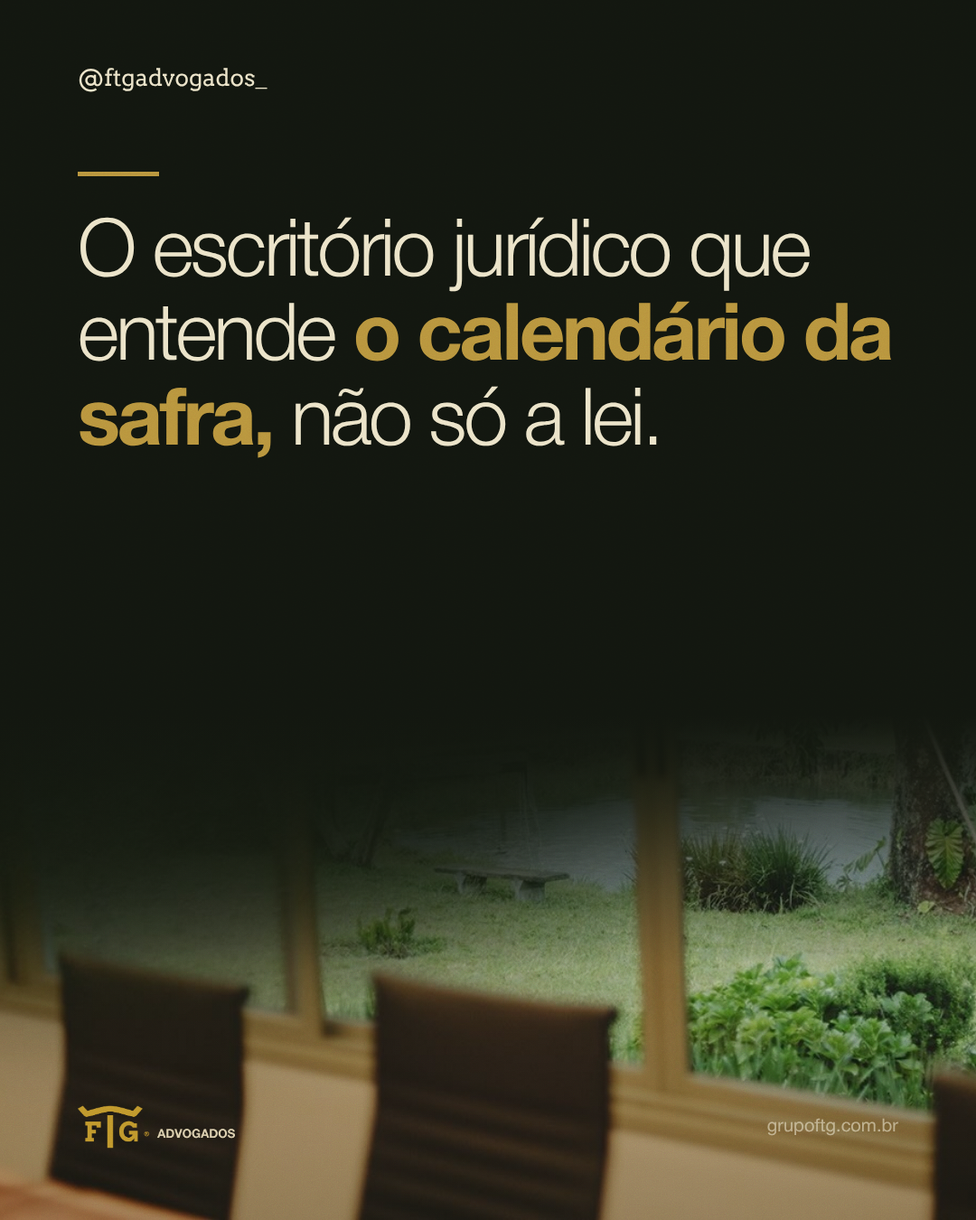
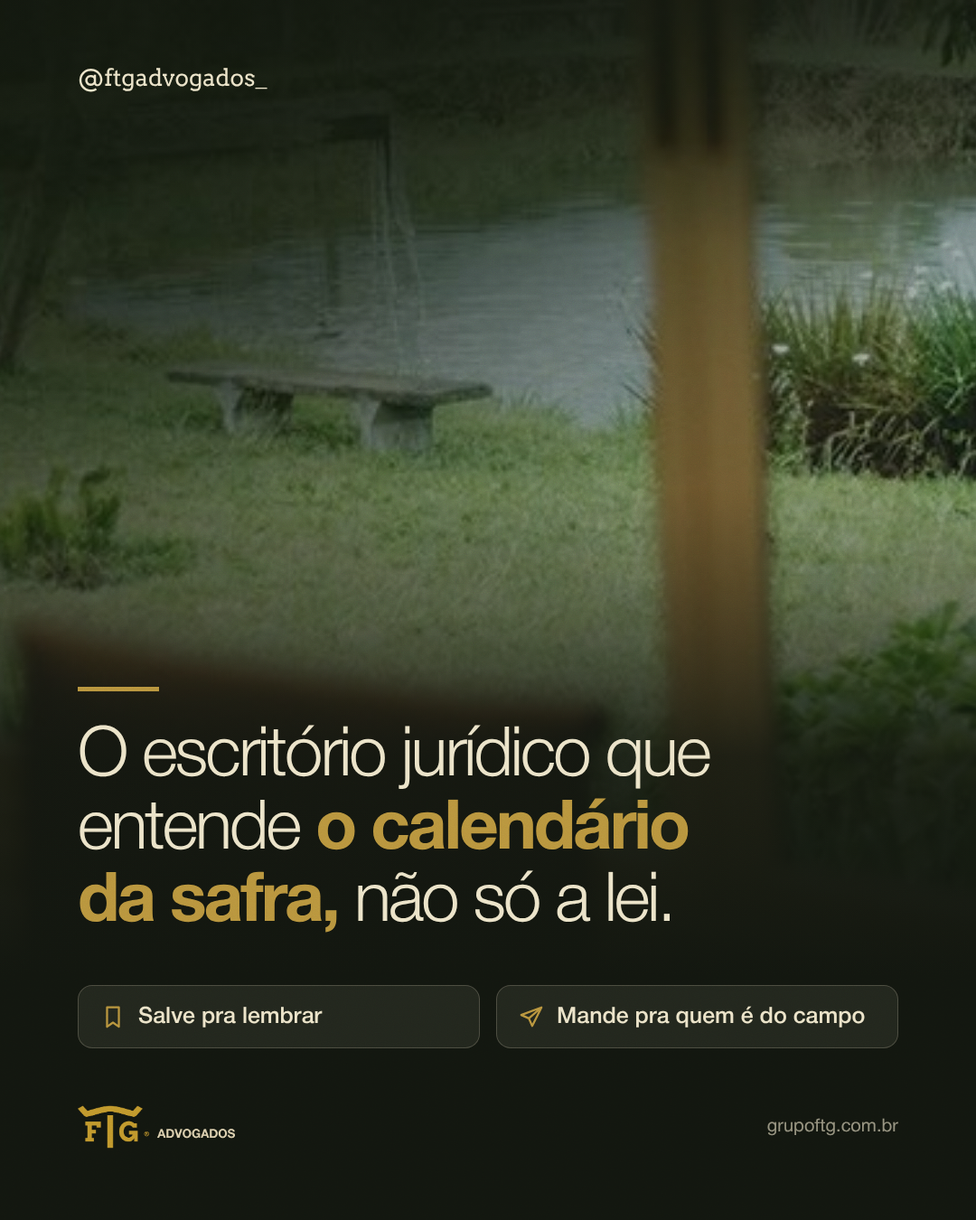
A FTG em números: foto cheia, mapa 3D e fecho novo
Claude-Session: https://claude.ai/code/session_01P4d7pDXSyhkanGB3aZGg4D

diff --git a/docs/gorayeb/modelos/ftg-em-numeros.html b/docs/gorayeb/modelos/ftg-em-numeros.html
@@ -33,19 +33,36 @@
 #g2 .anos{position:absolute;left:86px;right:86px;bottom:210px;display:flex;justify-content:space-between;font:500 22px HN;opacity:.7}
 #g2 .rod{position:absolute;left:86px;right:86px;bottom:80px;display:flex;justify-content:space-between;align-items:flex-end;font:300 28px HN}
 /* 3 */
-#g3 .cartao{top:140px;left:60px;width:960px;height:640px}
+#g3 .full{position:absolute;top:0;left:0;width:100%;height:1000px;object-fit:cover;object-position:40% 50%}
+#g3 .veu{position:absolute;left:0;right:0;top:0;height:1000px;background:linear-gradient(180deg,rgba(18,22,15,.75) 0,rgba(18,22,15,.1) 18%,rgba(18,22,15,.1) 45%,rgba(18,22,15,.85) 78%,#12160f 100%)}
 #g3 .num{position:absolute;left:78px;top:830px;font:700 190px/1 HN;letter-spacing:-.055em;color:#b8943d}
 #g3 .leit{position:absolute;left:86px;top:1035px;font:300 40px/1.3 HN;width:800px}
 #g3 .fonte{position:absolute;left:86px;bottom:74px}
 /* 4 */
-#g4 h1{position:absolute;left:86px;top:150px;font:700 82px/1.02 HN;letter-spacing:-.04em;width:620px} #g4 h1 span{font-weight:300}
-#g4 .cartao{top:150px;right:60px;width:270px;height:560px}
-#g4 svg{position:absolute;left:130px;top:400px;width:580px;overflow:visible}
-#g4 .pais{fill:#2a3322;stroke:#ebe3c8;stroke-width:2.4;stroke-linejoin:round}
-#g4 .rot{font:700 58px HN;fill:#ebe3c8;paint-order:stroke;stroke:#12160f;stroke-width:10px;stroke-linejoin:round}
-#g4 .txt{position:absolute;left:86px;right:86px;top:1110px;font:300 32px/1.42 HN} #g4 .txt b{font-weight:700;color:#b8943d}
+#g4 h1{position:absolute;left:86px;right:86px;top:150px;font:700 84px/1.04 HN;letter-spacing:-.04em;text-wrap:balance} #g4 h1 span{font-weight:300}
+#g4 .cena{position:absolute;left:0;right:0;top:330px;height:720px;perspective:1500px;display:flex;justify-content:center}
+#g4 .plano{position:relative;width:760px;height:797px;transform:translateY(-70px) rotateX(46deg) rotateZ(-8deg);transform-style:preserve-3d}
+#g4 .plano svg.c{position:absolute;inset:0;width:100%;height:100%;overflow:visible}
+#g4 .sombra{position:absolute;inset:6%;border-radius:50%;background:radial-gradient(closest-side,rgba(0,0,0,.55),transparent);transform:translateZ(-60px)}
+#g4 .pino{position:absolute;transform-origin:50% 100%;transform:translate(-50%,-100%) rotateX(-46deg);display:flex;flex-direction:column;align-items:center}
+#g4 .pino b{font:700 30px HN;white-space:nowrap;background:#ebe3c8;color:#1b2316;padding:8px 16px;border-radius:10px;margin-bottom:10px;box-shadow:0 8px 18px rgba(0,0,0,.35)}
+#g4 .pino b.princ{background:#b8943d}
+#g4 .rotulo{position:absolute;font:700 32px HN;white-space:nowrap;background:#ebe3c8;color:#1b2316;padding:9px 18px;border-radius:10px;box-shadow:0 8px 18px rgba(0,0,0,.35);z-index:4}
+#g4 .rotulo.princ{background:#b8943d}
+#g4 svg.fios{position:absolute;inset:0;width:1080px;height:1350px;z-index:3;pointer-events:none}
+#g4 .txt{position:absolute;left:86px;right:86px;top:1100px;font:300 34px/1.42 HN;text-wrap:balance} #g4 .txt b{font-weight:700;color:#b8943d}
 #g4 .fonte{position:absolute;left:86px;bottom:74px}
+
 /* 5 */
+#g5 .full{position:absolute;inset:0;width:100%;height:100%;object-fit:cover;object-position:60% 50%}
+#g5 .veu2{position:absolute;inset:0;background:linear-gradient(180deg,rgba(18,22,15,.7) 0,rgba(18,22,15,.15) 20%,rgba(18,22,15,.25) 40%,rgba(18,22,15,.92) 62%,#12160f 80%)}
+#g5 .bl{position:absolute;left:86px;right:86px;top:760px}
+#g5 .bl .fio{position:static;width:90px;height:5px;background:#b8943d;margin-bottom:34px}
+#g5 h2{font:300 76px/1.06 HN;letter-spacing:-.04em;text-wrap:balance} #g5 h2 b{font-weight:700;color:#b8943d}
+#g5 .botoes{position:absolute;left:86px;right:86px;top:1090px;display:flex;gap:18px}
+#g5 .botoes div{flex:1;display:flex;align-items:center;gap:14px;padding:20px 24px;border-radius:16px;background:rgba(235,227,200,.08);border:1.5px solid rgba(235,227,200,.2);font:500 25px HN}
+#g5 .botoes svg{width:28px;height:28px;fill:none;stroke:#b8943d;stroke-width:2.4;stroke-linejoin:round}
+
 #g5 .foto{position:absolute;left:0;right:0;bottom:0;width:100%;height:560px;object-fit:cover}
 #g5 .veu{position:absolute;left:0;right:0;bottom:0;height:560px;background:linear-gradient(0deg,rgba(18,22,15,.35) 0,rgba(18,22,15,.2) 50%,#12160f 100%)}
 #g5 .fio{position:absolute;left:86px;top:190px;width:90px;height:5px;background:#b8943d}
@@ -61,14 +78,24 @@
  <div class="num">+450%</div><div class="leit">de crescimento da carteira desde 2019.</div>
  <div class="barras"><div style="height:57.2px"></div><div style="height:78.0px"></div><div style="height:104.0px"></div><div style="height:135.20000000000002px"></div><div style="height:166.4px"></div><div style="height:208.0px"></div><div style="height:260.0px"></div></div><div class="anos"><span>2019</span><span>2025</span></div>
  <div class="rod"><span>E 2026 já caminha pra superar 2025.</span><span class="fonte">Dados do escritório</span></div></div>
-<div class="s" id="g3"><div class="arroba">@ftgadvogados_</div><img class="cartao" src="file:///tmp/claude-0/-home-user/26273b3c-5a63-5858-8d58-9c11ac53aa52/scratchpad/ig/foto03.jpg">
+<div class="s" id="g3"><img class="full" src="file:///tmp/claude-0/-home-user/26273b3c-5a63-5858-8d58-9c11ac53aa52/scratchpad/ig/foto03.jpg"><div class="veu"></div><div class="arroba">@ftgadvogados_</div>
  <div class="num">R$ 5,9 bi</div><div class="leit">em valor de causa sob a nossa responsabilidade.</div><div class="fonte">Dados do escritório</div></div>
-<div class="s" id="g4"><div class="arroba">@ftgadvogados_</div><h1>Atendimento próximo <span>e presencial.</span></h1>
- <img class="cartao" src="file:///tmp/claude-0/-home-user/26273b3c-5a63-5858-8d58-9c11ac53aa52/scratchpad/ig/foto04.jpg">
- <svg viewBox="0 0 1000 1049"><path class="pais" d="M525.1,1048.6 L518.0,1031.3 L529.3,1016.9 L514.5,996.3 L468.3,960.7 L458.9,961.6 L433.3,938.7 L416.8,941.9 L450.8,901.9 L479.5,873.8 L518.1,846.3 L518.6,823.6 L505.8,807.3 L493.2,812.7 L501.7,779.8 L501.7,764.4 L492.5,759.4 L483.0,763.9 L473.5,762.6 L468.1,726.5 L463.3,718.3 L446.1,710.9 L435.7,716.2 L408.8,711.0 L410.5,673.8 L403.0,658.7 L411.0,653.1 L408.5,637.7 L415.5,625.9 L420.0,604.7 L414.0,588.1 L400.1,580.6 L397.4,570.0 L401.1,554.7 L352.3,553.6 L342.5,522.8 L349.9,522.4 L349.6,511.0 L344.6,503.3 L343.5,488.1 L328.7,480.4 L312.7,480.6 L302.1,473.0 L284.9,467.8 L274.9,458.1 L246.3,453.8 L218.7,430.4 L220.7,413.0 L217.6,403.1 L220.3,383.7 L187.0,388.0 L173.6,397.8 L151.3,408.3 L145.6,416.1 L113.5,414.5 L99.2,418.9 L87.6,416.0 L89.3,376.6 L68.4,391.9 L45.9,391.2 L36.3,377.4 L19.4,375.9 L24.8,364.8 L10.6,349.2 L0.0,326.0 L6.7,321.3 L6.7,310.4 L22.1,303.0 L19.6,289.2 L26.1,280.3 L27.9,268.3 L57.0,250.9 L77.9,246.0 L81.3,242.2 L104.3,243.4 L116.3,162.4 L112.3,147.8 L101.0,138.5 L101.2,120.0 L115.5,115.8 L120.6,118.4 L121.5,108.7 L106.5,106.0 L106.2,90.1 L155.9,90.7 L164.3,81.9 L171.4,90.0 L176.3,105.0 L181.1,101.9 L195.2,115.3 L215.0,113.7 L219.9,105.9 L249.3,95.7 L252.3,85.0 L270.5,77.7 L269.1,72.3 L247.5,70.2 L244.0,54.1 L245.0,37.0 L233.6,30.4 L238.4,28.0 L277.5,37.7 L284.9,31.6 L331.7,18.1 L341.0,8.3 L337.6,1.1 L350.9,0.0 L356.8,5.9 L353.5,17.1 L362.2,21.0 L368.1,32.9 L361.0,41.9 L356.9,63.6 L363.5,76.5 L365.3,88.3 L381.0,100.2 L393.5,101.5 L396.3,96.5 L415.9,90.9 L424.2,84.1 L458.3,87.5 L460.6,82.3 L456.3,77.2 L458.9,69.8 L469.1,72.1 L481.2,69.5 L506.9,80.1 L514.8,73.2 L520.5,74.3 L523.9,81.5 L536.1,79.6 L545.9,70.0 L553.7,51.2 L568.8,27.8 L577.5,26.6 L598.1,85.3 L611.7,89.5 L612.4,107.1 L593.2,128.1 L601.1,135.8 L646.2,139.8 L647.1,165.3 L666.4,148.6 L740.8,173.3 L753.2,188.2 L749.1,202.4 L778.7,194.5 L828.2,208.0 L866.3,207.0 L904.0,228.1 L936.5,256.7 L956.1,264.1 L977.9,265.1 L987.1,273.2 L1000.0,321.3 L989.9,363.9 L976.9,380.7 L941.0,416.8 L924.8,446.2 L905.9,468.8 L899.5,469.3 L892.4,488.6 L894.2,537.9 L884.4,596.5 L876.4,607.1 L871.8,643.1 L846.0,678.5 L841.7,706.8 L821.1,718.7 L815.1,735.2 L787.4,735.2 L747.4,745.8 L729.4,758.2 L700.9,766.3 L670.9,788.6 L649.4,816.6 L645.6,837.8 L649.9,853.6 L645.1,882.6 L639.3,896.7 L621.5,912.8 L593.3,964.6 L570.9,988.3 L553.6,1002.3 L541.9,1031.1 L525.1,1048.6 Z"/><path transform="translate(657.1 617.7)" d="M0 0 C-20 -28 -34 -42 -34 -60 A34 34 0 1 1 34 -60 C34 -42 20 -28 0 0Z" fill="#b8943d" stroke="#12160f" stroke-width="4"/><circle cx="657.1" cy="557.7" r="12" fill="#12160f"/><path transform="translate(587.3 594.6)" d="M0 0 C-20 -28 -34 -42 -34 -60 A34 34 0 1 1 34 -60 C34 -42 20 -28 0 0Z" fill="#b8943d" stroke="#12160f" stroke-width="4"/><circle cx="587.3" cy="534.6" r="12" fill="#12160f"/><path transform="translate(455.6 536.4)" d="M0 0 C-20 -28 -34 -42 -34 -60 A34 34 0 1 1 34 -60 C34 -42 20 -28 0 0Z" fill="#b8943d" stroke="#12160f" stroke-width="4"/><circle cx="455.6" cy="476.4" r="12" fill="#12160f"/><text class="rot" x="697.1" y="627.7" text-anchor="start">Araguari · MG</text><text class="rot" x="543.3" y="634.6" text-anchor="end">Sul de Goiás</text><text class="rot" x="411.6" y="506.4" text-anchor="end">Mato Grosso</text></svg>
+<div class="s" id="g4"><div class="arroba">@ftgadvogados_</div><h1>Atendimento próximo<br><span>e presencial.</span></h1>
+ <div class="cena"><div class="plano"><div class="sombra"></div><svg class="c" viewBox="0 0 1000 1049" style="transform:translateZ(-22px)"><path d="M525.1,1048.6 L518.0,1031.3 L529.3,1016.9 L514.5,996.3 L468.3,960.7 L458.9,961.6 L433.3,938.7 L416.8,941.9 L450.8,901.9 L479.5,873.8 L518.1,846.3 L518.6,823.6 L505.8,807.3 L493.2,812.7 L501.7,779.8 L501.7,764.4 L492.5,759.4 L483.0,763.9 L473.5,762.6 L468.1,726.5 L463.3,718.3 L446.1,710.9 L435.7,716.2 L408.8,711.0 L410.5,673.8 L403.0,658.7 L411.0,653.1 L408.5,637.7 L415.5,625.9 L420.0,604.7 L414.0,588.1 L400.1,580.6 L397.4,570.0 L401.1,554.7 L352.3,553.6 L342.5,522.8 L349.9,522.4 L349.6,511.0 L344.6,503.3 L343.5,488.1 L328.7,480.4 L312.7,480.6 L302.1,473.0 L284.9,467.8 L274.9,458.1 L246.3,453.8 L218.7,430.4 L220.7,413.0 L217.6,403.1 L220.3,383.7 L187.0,388.0 L173.6,397.8 L151.3,408.3 L145.6,416.1 L113.5,414.5 L99.2,418.9 L87.6,416.0 L89.3,376.6 L68.4,391.9 L45.9,391.2 L36.3,377.4 L19.4,375.9 L24.8,364.8 L10.6,349.2 L0.0,326.0 L6.7,321.3 L6.7,310.4 L22.1,303.0 L19.6,289.2 L26.1,280.3 L27.9,268.3 L57.0,250.9 L77.9,246.0 L81.3,242.2 L104.3,243.4 L116.3,162.4 L112.3,147.8 L101.0,138.5 L101.2,120.0 L115.5,115.8 L120.6,118.4 L121.5,108.7 L106.5,106.0 L106.2,90.1 L155.9,90.7 L164.3,81.9 L171.4,90.0 L176.3,105.0 L181.1,101.9 L195.2,115.3 L215.0,113.7 L219.9,105.9 L249.3,95.7 L252.3,85.0 L270.5,77.7 L269.1,72.3 L247.5,70.2 L244.0,54.1 L245.0,37.0 L233.6,30.4 L238.4,28.0 L277.5,37.7 L284.9,31.6 L331.7,18.1 L341.0,8.3 L337.6,1.1 L350.9,0.0 L356.8,5.9 L353.5,17.1 L362.2,21.0 L368.1,32.9 L361.0,41.9 L356.9,63.6 L363.5,76.5 L365.3,88.3 L381.0,100.2 L393.5,101.5 L396.3,96.5 L415.9,90.9 L424.2,84.1 L458.3,87.5 L460.6,82.3 L456.3,77.2 L458.9,69.8 L469.1,72.1 L481.2,69.5 L506.9,80.1 L514.8,73.2 L520.5,74.3 L523.9,81.5 L536.1,79.6 L545.9,70.0 L553.7,51.2 L568.8,27.8 L577.5,26.6 L598.1,85.3 L611.7,89.5 L612.4,107.1 L593.2,128.1 L601.1,135.8 L646.2,139.8 L647.1,165.3 L666.4,148.6 L740.8,173.3 L753.2,188.2 L749.1,202.4 L778.7,194.5 L828.2,208.0 L866.3,207.0 L904.0,228.1 L936.5,256.7 L956.1,264.1 L977.9,265.1 L987.1,273.2 L1000.0,321.3 L989.9,363.9 L976.9,380.7 L941.0,416.8 L924.8,446.2 L905.9,468.8 L899.5,469.3 L892.4,488.6 L894.2,537.9 L884.4,596.5 L876.4,607.1 L871.8,643.1 L846.0,678.5 L841.7,706.8 L821.1,718.7 L815.1,735.2 L787.4,735.2 L747.4,745.8 L729.4,758.2 L700.9,766.3 L670.9,788.6 L649.4,816.6 L645.6,837.8 L649.9,853.6 L645.1,882.6 L639.3,896.7 L621.5,912.8 L593.3,964.6 L570.9,988.3 L553.6,1002.3 L541.9,1031.1 L525.1,1048.6 Z" fill="#0b0e09"/></svg><svg class="c" viewBox="0 0 1000 1049" style="transform:translateZ(-20px)"><path d="M525.1,1048.6 L518.0,1031.3 L529.3,1016.9 L514.5,996.3 L468.3,960.7 L458.9,961.6 L433.3,938.7 L416.8,941.9 L450.8,901.9 L479.5,873.8 L518.1,846.3 L518.6,823.6 L505.8,807.3 L493.2,812.7 L501.7,779.8 L501.7,764.4 L492.5,759.4 L483.0,763.9 L473.5,762.6 L468.1,726.5 L463.3,718.3 L446.1,710.9 L435.7,716.2 L408.8,711.0 L410.5,673.8 L403.0,658.7 L411.0,653.1 L408.5,637.7 L415.5,625.9 L420.0,604.7 L414.0,588.1 L400.1,580.6 L397.4,570.0 L401.1,554.7 L352.3,553.6 L342.5,522.8 L349.9,522.4 L349.6,511.0 L344.6,503.3 L343.5,488.1 L328.7,480.4 L312.7,480.6 L302.1,473.0 L284.9,467.8 L274.9,458.1 L246.3,453.8 L218.7,430.4 L220.7,413.0 L217.6,403.1 L220.3,383.7 L187.0,388.0 L173.6,397.8 L151.3,408.3 L145.6,416.1 L113.5,414.5 L99.2,418.9 L87.6,416.0 L89.3,376.6 L68.4,391.9 L45.9,391.2 L36.3,377.4 L19.4,375.9 L24.8,364.8 L10.6,349.2 L0.0,326.0 L6.7,321.3 L6.7,310.4 L22.1,303.0 L19.6,289.2 L26.1,280.3 L27.9,268.3 L57.0,250.9 L77.9,246.0 L81.3,242.2 L104.3,243.4 L116.3,162.4 L112.3,147.8 L101.0,138.5 L101.2,120.0 L115.5,115.8 L120.6,118.4 L121.5,108.7 L106.5,106.0 L106.2,90.1 L155.9,90.7 L164.3,81.9 L171.4,90.0 L176.3,105.0 L181.1,101.9 L195.2,115.3 L215.0,113.7 L219.9,105.9 L249.3,95.7 L252.3,85.0 L270.5,77.7 L269.1,72.3 L247.5,70.2 L244.0,54.1 L245.0,37.0 L233.6,30.4 L238.4,28.0 L277.5,37.7 L284.9,31.6 L331.7,18.1 L341.0,8.3 L337.6,1.1 L350.9,0.0 L356.8,5.9 L353.5,17.1 L362.2,21.0 L368.1,32.9 L361.0,41.9 L356.9,63.6 L363.5,76.5 L365.3,88.3 L381.0,100.2 L393.5,101.5 L396.3,96.5 L415.9,90.9 L424.2,84.1 L458.3,87.5 L460.6,82.3 L456.3,77.2 L458.9,69.8 L469.1,72.1 L481.2,69.5 L506.9,80.1 L514.8,73.2 L520.5,74.3 L523.9,81.5 L536.1,79.6 L545.9,70.0 L553.7,51.2 L568.8,27.8 L577.5,26.6 L598.1,85.3 L611.7,89.5 L612.4,107.1 L593.2,128.1 L601.1,135.8 L646.2,139.8 L647.1,165.3 L666.4,148.6 L740.8,173.3 L753.2,188.2 L749.1,202.4 L778.7,194.5 L828.2,208.0 L866.3,207.0 L904.0,228.1 L936.5,256.7 L956.1,264.1 L977.9,265.1 L987.1,273.2 L1000.0,321.3 L989.9,363.9 L976.9,380.7 L941.0,416.8 L924.8,446.2 L905.9,468.8 L899.5,469.3 L892.4,488.6 L894.2,537.9 L884.4,596.5 L876.4,607.1 L871.8,643.1 L846.0,678.5 L841.7,706.8 L821.1,718.7 L815.1,735.2 L787.4,735.2 L747.4,745.8 L729.4,758.2 L700.9,766.3 L670.9,788.6 L649.4,816.6 L645.6,837.8 L649.9,853.6 L645.1,882.6 L639.3,896.7 L621.5,912.8 L593.3,964.6 L570.9,988.3 L553.6,1002.3 L541.9,1031.1 L525.1,1048.6 Z" fill="#0b0e09"/></svg><svg class="c" viewBox="0 0 1000 1049" style="transform:translateZ(-18px)"><path d="M525.1,1048.6 L518.0,1031.3 L529.3,1016.9 L514.5,996.3 L468.3,960.7 L458.9,961.6 L433.3,938.7 L416.8,941.9 L450.8,901.9 L479.5,873.8 L518.1,846.3 L518.6,823.6 L505.8,807.3 L493.2,812.7 L501.7,779.8 L501.7,764.4 L492.5,759.4 L483.0,763.9 L473.5,762.6 L468.1,726.5 L463.3,718.3 L446.1,710.9 L435.7,716.2 L408.8,711.0 L410.5,673.8 L403.0,658.7 L411.0,653.1 L408.5,637.7 L415.5,625.9 L420.0,604.7 L414.0,588.1 L400.1,580.6 L397.4,570.0 L401.1,554.7 L352.3,553.6 L342.5,522.8 L349.9,522.4 L349.6,511.0 L344.6,503.3 L343.5,488.1 L328.7,480.4 L312.7,480.6 L302.1,473.0 L284.9,467.8 L274.9,458.1 L246.3,453.8 L218.7,430.4 L220.7,413.0 L217.6,403.1 L220.3,383.7 L187.0,388.0 L173.6,397.8 L151.3,408.3 L145.6,416.1 L113.5,414.5 L99.2,418.9 L87.6,416.0 L89.3,376.6 L68.4,391.9 L45.9,391.2 L36.3,377.4 L19.4,375.9 L24.8,364.8 L10.6,349.2 L0.0,326.0 L6.7,321.3 L6.7,310.4 L22.1,303.0 L19.6,289.2 L26.1,280.3 L27.9,268.3 L57.0,250.9 L77.9,246.0 L81.3,242.2 L104.3,243.4 L116.3,162.4 L112.3,147.8 L101.0,138.5 L101.2,120.0 L115.5,115.8 L120.6,118.4 L121.5,108.7 L106.5,106.0 L106.2,90.1 L155.9,90.7 L164.3,81.9 L171.4,90.0 L176.3,105.0 L181.1,101.9 L195.2,115.3 L215.0,113.7 L219.9,105.9 L249.3,95.7 L252.3,85.0 L270.5,77.7 L269.1,72.3 L247.5,70.2 L244.0,54.1 L245.0,37.0 L233.6,30.4 L238.4,28.0 L277.5,37.7 L284.9,31.6 L331.7,18.1 L341.0,8.3 L337.6,1.1 L350.9,0.0 L356.8,5.9 L353.5,17.1 L362.2,21.0 L368.1,32.9 L361.0,41.9 L356.9,63.6 L363.5,76.5 L365.3,88.3 L381.0,100.2 L393.5,101.5 L396.3,96.5 L415.9,90.9 L424.2,84.1 L458.3,87.5 L460.6,82.3 L456.3,77.2 L458.9,69.8 L469.1,72.1 L481.2,69.5 L506.9,80.1 L514.8,73.2 L520.5,74.3 L523.9,81.5 L536.1,79.6 L545.9,70.0 L553.7,51.2 L568.8,27.8 L577.5,26.6 L598.1,85.3 L611.7,89.5 L612.4,107.1 L593.2,128.1 L601.1,135.8 L646.2,139.8 L647.1,165.3 L666.4,148.6 L740.8,173.3 L753.2,188.2 L749.1,202.4 L778.7,194.5 L828.2,208.0 L866.3,207.0 L904.0,228.1 L936.5,256.7 L956.1,264.1 L977.9,265.1 L987.1,273.2 L1000.0,321.3 L989.9,363.9 L976.9,380.7 L941.0,416.8 L924.8,446.2 L905.9,468.8 L899.5,469.3 L892.4,488.6 L894.2,537.9 L884.4,596.5 L876.4,607.1 L871.8,643.1 L846.0,678.5 L841.7,706.8 L821.1,718.7 L815.1,735.2 L787.4,735.2 L747.4,745.8 L729.4,758.2 L700.9,766.3 L670.9,788.6 L649.4,816.6 L645.6,837.8 L649.9,853.6 L645.1,882.6 L639.3,896.7 L621.5,912.8 L593.3,964.6 L570.9,988.3 L553.6,1002.3 L541.9,1031.1 L525.1,1048.6 Z" fill="#0b0e09"/></svg><svg class="c" viewBox="0 0 1000 1049" style="transform:translateZ(-16px)"><path d="M525.1,1048.6 L518.0,1031.3 L529.3,1016.9 L514.5,996.3 L468.3,960.7 L458.9,961.6 L433.3,938.7 L416.8,941.9 L450.8,901.9 L479.5,873.8 L518.1,846.3 L518.6,823.6 L505.8,807.3 L493.2,812.7 L501.7,779.8 L501.7,764.4 L492.5,759.4 L483.0,763.9 L473.5,762.6 L468.1,726.5 L463.3,718.3 L446.1,710.9 L435.7,716.2 L408.8,711.0 L410.5,673.8 L403.0,658.7 L411.0,653.1 L408.5,637.7 L415.5,625.9 L420.0,604.7 L414.0,588.1 L400.1,580.6 L397.4,570.0 L401.1,554.7 L352.3,553.6 L342.5,522.8 L349.9,522.4 L349.6,511.0 L344.6,503.3 L343.5,488.1 L328.7,480.4 L312.7,480.6 L302.1,473.0 L284.9,467.8 L274.9,458.1 L246.3,453.8 L218.7,430.4 L220.7,413.0 L217.6,403.1 L220.3,383.7 L187.0,388.0 L173.6,397.8 L151.3,408.3 L145.6,416.1 L113.5,414.5 L99.2,418.9 L87.6,416.0 L89.3,376.6 L68.4,391.9 L45.9,391.2 L36.3,377.4 L19.4,375.9 L24.8,364.8 L10.6,349.2 L0.0,326.0 L6.7,321.3 L6.7,310.4 L22.1,303.0 L19.6,289.2 L26.1,280.3 L27.9,268.3 L57.0,250.9 L77.9,246.0 L81.3,242.2 L104.3,243.4 L116.3,162.4 L112.3,147.8 L101.0,138.5 L101.2,120.0 L115.5,115.8 L120.6,118.4 L121.5,108.7 L106.5,106.0 L106.2,90.1 L155.9,90.7 L164.3,81.9 L171.4,90.0 L176.3,105.0 L181.1,101.9 L195.2,115.3 L215.0,113.7 L219.9,105.9 L249.3,95.7 L252.3,85.0 L270.5,77.7 L269.1,72.3 L247.5,70.2 L244.0,54.1 L245.0,37.0 L233.6,30.4 L238.4,28.0 L277.5,37.7 L284.9,31.6 L331.7,18.1 L341.0,8.3 L337.6,1.1 L350.9,0.0 L356.8,5.9 L353.5,17.1 L362.2,21.0 L368.1,32.9 L361.0,41.9 L356.9,63.6 L363.5,76.5 L365.3,88.3 L381.0,100.2 L393.5,101.5 L396.3,96.5 L415.9,90.9 L424.2,84.1 L458.3,87.5 L460.6,82.3 L456.3,77.2 L458.9,69.8 L469.1,72.1 L481.2,69.5 L506.9,80.1 L514.8,73.2 L520.5,74.3 L523.9,81.5 L536.1,79.6 L545.9,70.0 L553.7,51.2 L568.8,27.8 L577.5,26.6 L598.1,85.3 L611.7,89.5 L612.4,107.1 L593.2,128.1 L601.1,135.8 L646.2,139.8 L647.1,165.3 L666.4,148.6 L740.8,173.3 L753.2,188.2 L749.1,202.4 L778.7,194.5 L828.2,208.0 L866.3,207.0 L904.0,228.1 L936.5,256.7 L956.1,264.1 L977.9,265.1 L987.1,273.2 L1000.0,321.3 L989.9,363.9 L976.9,380.7 L941.0,416.8 L924.8,446.2 L905.9,468.8 L899.5,469.3 L892.4,488.6 L894.2,537.9 L884.4,596.5 L876.4,607.1 L871.8,643.1 L846.0,678.5 L841.7,706.8 L821.1,718.7 L815.1,735.2 L787.4,735.2 L747.4,745.8 L729.4,758.2 L700.9,766.3 L670.9,788.6 L649.4,816.6 L645.6,837.8 L649.9,853.6 L645.1,882.6 L639.3,896.7 L621.5,912.8 L593.3,964.6 L570.9,988.3 L553.6,1002.3 L541.9,1031.1 L525.1,1048.6 Z" fill="#0b0e09"/></svg><svg class="c" viewBox="0 0 1000 1049" style="transform:translateZ(-14px)"><path d="M525.1,1048.6 L518.0,1031.3 L529.3,1016.9 L514.5,996.3 L468.3,960.7 L458.9,961.6 L433.3,938.7 L416.8,941.9 L450.8,901.9 L479.5,873.8 L518.1,846.3 L518.6,823.6 L505.8,807.3 L493.2,812.7 L501.7,779.8 L501.7,764.4 L492.5,759.4 L483.0,763.9 L473.5,762.6 L468.1,726.5 L463.3,718.3 L446.1,710.9 L435.7,716.2 L408.8,711.0 L410.5,673.8 L403.0,658.7 L411.0,653.1 L408.5,637.7 L415.5,625.9 L420.0,604.7 L414.0,588.1 L400.1,580.6 L397.4,570.0 L401.1,554.7 L352.3,553.6 L342.5,522.8 L349.9,522.4 L349.6,511.0 L344.6,503.3 L343.5,488.1 L328.7,480.4 L312.7,480.6 L302.1,473.0 L284.9,467.8 L274.9,458.1 L246.3,453.8 L218.7,430.4 L220.7,413.0 L217.6,403.1 L220.3,383.7 L187.0,388.0 L173.6,397.8 L151.3,408.3 L145.6,416.1 L113.5,414.5 L99.2,418.9 L87.6,416.0 L89.3,376.6 L68.4,391.9 L45.9,391.2 L36.3,377.4 L19.4,375.9 L24.8,364.8 L10.6,349.2 L0.0,326.0 L6.7,321.3 L6.7,310.4 L22.1,303.0 L19.6,289.2 L26.1,280.3 L27.9,268.3 L57.0,250.9 L77.9,246.0 L81.3,242.2 L104.3,243.4 L116.3,162.4 L112.3,147.8 L101.0,138.5 L101.2,120.0 L115.5,115.8 L120.6,118.4 L121.5,108.7 L106.5,106.0 L106.2,90.1 L155.9,90.7 L164.3,81.9 L171.4,90.0 L176.3,105.0 L181.1,101.9 L195.2,115.3 L215.0,113.7 L219.9,105.9 L249.3,95.7 L252.3,85.0 L270.5,77.7 L269.1,72.3 L247.5,70.2 L244.0,54.1 L245.0,37.0 L233.6,30.4 L238.4,28.0 L277.5,37.7 L284.9,31.6 L331.7,18.1 L341.0,8.3 L337.6,1.1 L350.9,0.0 L356.8,5.9 L353.5,17.1 L362.2,21.0 L368.1,32.9 L361.0,41.9 L356.9,63.6 L363.5,76.5 L365.3,88.3 L381.0,100.2 L393.5,101.5 L396.3,96.5 L415.9,90.9 L424.2,84.1 L458.3,87.5 L460.6,82.3 L456.3,77.2 L458.9,69.8 L469.1,72.1 L481.2,69.5 L506.9,80.1 L514.8,73.2 L520.5,74.3 L523.9,81.5 L536.1,79.6 L545.9,70.0 L553.7,51.2 L568.8,27.8 L577.5,26.6 L598.1,85.3 L611.7,89.5 L612.4,107.1 L593.2,128.1 L601.1,135.8 L646.2,139.8 L647.1,165.3 L666.4,148.6 L740.8,173.3 L753.2,188.2 L749.1,202.4 L778.7,194.5 L828.2,208.0 L866.3,207.0 L904.0,228.1 L936.5,256.7 L956.1,264.1 L977.9,265.1 L987.1,273.2 L1000.0,321.3 L989.9,363.9 L976.9,380.7 L941.0,416.8 L924.8,446.2 L905.9,468.8 L899.5,469.3 L892.4,488.6 L894.2,537.9 L884.4,596.5 L876.4,607.1 L871.8,643.1 L846.0,678.5 L841.7,706.8 L821.1,718.7 L815.1,735.2 L787.4,735.2 L747.4,745.8 L729.4,758.2 L700.9,766.3 L670.9,788.6 L649.4,816.6 L645.6,837.8 L649.9,853.6 L645.1,882.6 L639.3,896.7 L621.5,912.8 L593.3,964.6 L570.9,988.3 L553.6,1002.3 L541.9,1031.1 L525.1,1048.6 Z" fill="#0b0e09"/></svg><svg class="c" viewBox="0 0 1000 1049" style="transform:translateZ(-12px)"><path d="M525.1,1048.6 L518.0,1031.3 L529.3,1016.9 L514.5,996.3 L468.3,960.7 L458.9,961.6 L433.3,938.7 L416.8,941.9 L450.8,901.9 L479.5,873.8 L518.1,846.3 L518.6,823.6 L505.8,807.3 L493.2,812.7 L501.7,779.8 L501.7,764.4 L492.5,759.4 L483.0,763.9 L473.5,762.6 L468.1,726.5 L463.3,718.3 L446.1,710.9 L435.7,716.2 L408.8,711.0 L410.5,673.8 L403.0,658.7 L411.0,653.1 L408.5,637.7 L415.5,625.9 L420.0,604.7 L414.0,588.1 L400.1,580.6 L397.4,570.0 L401.1,554.7 L352.3,553.6 L342.5,522.8 L349.9,522.4 L349.6,511.0 L344.6,503.3 L343.5,488.1 L328.7,480.4 L312.7,480.6 L302.1,473.0 L284.9,467.8 L274.9,458.1 L246.3,453.8 L218.7,430.4 L220.7,413.0 L217.6,403.1 L220.3,383.7 L187.0,388.0 L173.6,397.8 L151.3,408.3 L145.6,416.1 L113.5,414.5 L99.2,418.9 L87.6,416.0 L89.3,376.6 L68.4,391.9 L45.9,391.2 L36.3,377.4 L19.4,375.9 L24.8,364.8 L10.6,349.2 L0.0,326.0 L6.7,321.3 L6.7,310.4 L22.1,303.0 L19.6,289.2 L26.1,280.3 L27.9,268.3 L57.0,250.9 L77.9,246.0 L81.3,242.2 L104.3,243.4 L116.3,162.4 L112.3,147.8 L101.0,138.5 L101.2,120.0 L115.5,115.8 L120.6,118.4 L121.5,108.7 L106.5,106.0 L106.2,90.1 L155.9,90.7 L164.3,81.9 L171.4,90.0 L176.3,105.0 L181.1,101.9 L195.2,115.3 L215.0,113.7 L219.9,105.9 L249.3,95.7 L252.3,85.0 L270.5,77.7 L269.1,72.3 L247.5,70.2 L244.0,54.1 L245.0,37.0 L233.6,30.4 L238.4,28.0 L277.5,37.7 L284.9,31.6 L331.7,18.1 L341.0,8.3 L337.6,1.1 L350.9,0.0 L356.8,5.9 L353.5,17.1 L362.2,21.0 L368.1,32.9 L361.0,41.9 L356.9,63.6 L363.5,76.5 L365.3,88.3 L381.0,100.2 L393.5,101.5 L396.3,96.5 L415.9,90.9 L424.2,84.1 L458.3,87.5 L460.6,82.3 L456.3,77.2 L458.9,69.8 L469.1,72.1 L481.2,69.5 L506.9,80.1 L514.8,73.2 L520.5,74.3 L523.9,81.5 L536.1,79.6 L545.9,70.0 L553.7,51.2 L568.8,27.8 L577.5,26.6 L598.1,85.3 L611.7,89.5 L612.4,107.1 L593.2,128.1 L601.1,135.8 L646.2,139.8 L647.1,165.3 L666.4,148.6 L740.8,173.3 L753.2,188.2 L749.1,202.4 L778.7,194.5 L828.2,208.0 L866.3,207.0 L904.0,228.1 L936.5,256.7 L956.1,264.1 L977.9,265.1 L987.1,273.2 L1000.0,321.3 L989.9,363.9 L976.9,380.7 L941.0,416.8 L924.8,446.2 L905.9,468.8 L899.5,469.3 L892.4,488.6 L894.2,537.9 L884.4,596.5 L876.4,607.1 L871.8,643.1 L846.0,678.5 L841.7,706.8 L821.1,718.7 L815.1,735.2 L787.4,735.2 L747.4,745.8 L729.4,758.2 L700.9,766.3 L670.9,788.6 L649.4,816.6 L645.6,837.8 L649.9,853.6 L645.1,882.6 L639.3,896.7 L621.5,912.8 L593.3,964.6 L570.9,988.3 L553.6,1002.3 L541.9,1031.1 L525.1,1048.6 Z" fill="#0b0e09"/></svg><svg class="c" viewBox="0 0 1000 1049" style="transform:translateZ(-10px)"><path d="M525.1,1048.6 L518.0,1031.3 L529.3,1016.9 L514.5,996.3 L468.3,960.7 L458.9,961.6 L433.3,938.7 L416.8,941.9 L450.8,901.9 L479.5,873.8 L518.1,846.3 L518.6,823.6 L505.8,807.3 L493.2,812.7 L501.7,779.8 L501.7,764.4 L492.5,759.4 L483.0,763.9 L473.5,762.6 L468.1,726.5 L463.3,718.3 L446.1,710.9 L435.7,716.2 L408.8,711.0 L410.5,673.8 L403.0,658.7 L411.0,653.1 L408.5,637.7 L415.5,625.9 L420.0,604.7 L414.0,588.1 L400.1,580.6 L397.4,570.0 L401.1,554.7 L352.3,553.6 L342.5,522.8 L349.9,522.4 L349.6,511.0 L344.6,503.3 L343.5,488.1 L328.7,480.4 L312.7,480.6 L302.1,473.0 L284.9,467.8 L274.9,458.1 L246.3,453.8 L218.7,430.4 L220.7,413.0 L217.6,403.1 L220.3,383.7 L187.0,388.0 L173.6,397.8 L151.3,408.3 L145.6,416.1 L113.5,414.5 L99.2,418.9 L87.6,416.0 L89.3,376.6 L68.4,391.9 L45.9,391.2 L36.3,377.4 L19.4,375.9 L24.8,364.8 L10.6,349.2 L0.0,326.0 L6.7,321.3 L6.7,310.4 L22.1,303.0 L19.6,289.2 L26.1,280.3 L27.9,268.3 L57.0,250.9 L77.9,246.0 L81.3,242.2 L104.3,243.4 L116.3,162.4 L112.3,147.8 L101.0,138.5 L101.2,120.0 L115.5,115.8 L120.6,118.4 L121.5,108.7 L106.5,106.0 L106.2,90.1 L155.9,90.7 L164.3,81.9 L171.4,90.0 L176.3,105.0 L181.1,101.9 L195.2,115.3 L215.0,113.7 L219.9,105.9 L249.3,95.7 L252.3,85.0 L270.5,77.7 L269.1,72.3 L247.5,70.2 L244.0,54.1 L245.0,37.0 L233.6,30.4 L238.4,28.0 L277.5,37.7 L284.9,31.6 L331.7,18.1 L341.0,8.3 L337.6,1.1 L350.9,0.0 L356.8,5.9 L353.5,17.1 L362.2,21.0 L368.1,32.9 L361.0,41.9 L356.9,63.6 L363.5,76.5 L365.3,88.3 L381.0,100.2 L393.5,101.5 L396.3,96.5 L415.9,90.9 L424.2,84.1 L458.3,87.5 L460.6,82.3 L456.3,77.2 L458.9,69.8 L469.1,72.1 L481.2,69.5 L506.9,80.1 L514.8,73.2 L520.5,74.3 L523.9,81.5 L536.1,79.6 L545.9,70.0 L553.7,51.2 L568.8,27.8 L577.5,26.6 L598.1,85.3 L611.7,89.5 L612.4,107.1 L593.2,128.1 L601.1,135.8 L646.2,139.8 L647.1,165.3 L666.4,148.6 L740.8,173.3 L753.2,188.2 L749.1,202.4 L778.7,194.5 L828.2,208.0 L866.3,207.0 L904.0,228.1 L936.5,256.7 L956.1,264.1 L977.9,265.1 L987.1,273.2 L1000.0,321.3 L989.9,363.9 L976.9,380.7 L941.0,416.8 L924.8,446.2 L905.9,468.8 L899.5,469.3 L892.4,488.6 L894.2,537.9 L884.4,596.5 L876.4,607.1 L871.8,643.1 L846.0,678.5 L841.7,706.8 L821.1,718.7 L815.1,735.2 L787.4,735.2 L747.4,745.8 L729.4,758.2 L700.9,766.3 L670.9,788.6 L649.4,816.6 L645.6,837.8 L649.9,853.6 L645.1,882.6 L639.3,896.7 L621.5,912.8 L593.3,964.6 L570.9,988.3 L553.6,1002.3 L541.9,1031.1 L525.1,1048.6 Z" fill="#0b0e09"/></svg><svg class="c" viewBox="0 0 1000 1049" style="transform:translateZ(-8px)"><path d="M525.1,1048.6 L518.0,1031.3 L529.3,1016.9 L514.5,996.3 L468.3,960.7 L458.9,961.6 L433.3,938.7 L416.8,941.9 L450.8,901.9 L479.5,873.8 L518.1,846.3 L518.6,823.6 L505.8,807.3 L493.2,812.7 L501.7,779.8 L501.7,764.4 L492.5,759.4 L483.0,763.9 L473.5,762.6 L468.1,726.5 L463.3,718.3 L446.1,710.9 L435.7,716.2 L408.8,711.0 L410.5,673.8 L403.0,658.7 L411.0,653.1 L408.5,637.7 L415.5,625.9 L420.0,604.7 L414.0,588.1 L400.1,580.6 L397.4,570.0 L401.1,554.7 L352.3,553.6 L342.5,522.8 L349.9,522.4 L349.6,511.0 L344.6,503.3 L343.5,488.1 L328.7,480.4 L312.7,480.6 L302.1,473.0 L284.9,467.8 L274.9,458.1 L246.3,453.8 L218.7,430.4 L220.7,413.0 L217.6,403.1 L220.3,383.7 L187.0,388.0 L173.6,397.8 L151.3,408.3 L145.6,416.1 L113.5,414.5 L99.2,418.9 L87.6,416.0 L89.3,376.6 L68.4,391.9 L45.9,391.2 L36.3,377.4 L19.4,375.9 L24.8,364.8 L10.6,349.2 L0.0,326.0 L6.7,321.3 L6.7,310.4 L22.1,303.0 L19.6,289.2 L26.1,280.3 L27.9,268.3 L57.0,250.9 L77.9,246.0 L81.3,242.2 L104.3,243.4 L116.3,162.4 L112.3,147.8 L101.0,138.5 L101.2,120.0 L115.5,115.8 L120.6,118.4 L121.5,108.7 L106.5,106.0 L106.2,90.1 L155.9,90.7 L164.3,81.9 L171.4,90.0 L176.3,105.0 L181.1,101.9 L195.2,115.3 L215.0,113.7 L219.9,105.9 L249.3,95.7 L252.3,85.0 L270.5,77.7 L269.1,72.3 L247.5,70.2 L244.0,54.1 L245.0,37.0 L233.6,30.4 L238.4,28.0 L277.5,37.7 L284.9,31.6 L331.7,18.1 L341.0,8.3 L337.6,1.1 L350.9,0.0 L356.8,5.9 L353.5,17.1 L362.2,21.0 L368.1,32.9 L361.0,41.9 L356.9,63.6 L363.5,76.5 L365.3,88.3 L381.0,100.2 L393.5,101.5 L396.3,96.5 L415.9,90.9 L424.2,84.1 L458.3,87.5 L460.6,82.3 L456.3,77.2 L458.9,69.8 L469.1,72.1 L481.2,69.5 L506.9,80.1 L514.8,73.2 L520.5,74.3 L523.9,81.5 L536.1,79.6 L545.9,70.0 L553.7,51.2 L568.8,27.8 L577.5,26.6 L598.1,85.3 L611.7,89.5 L612.4,107.1 L593.2,128.1 L601.1,135.8 L646.2,139.8 L647.1,165.3 L666.4,148.6 L740.8,173.3 L753.2,188.2 L749.1,202.4 L778.7,194.5 L828.2,208.0 L866.3,207.0 L904.0,228.1 L936.5,256.7 L956.1,264.1 L977.9,265.1 L987.1,273.2 L1000.0,321.3 L989.9,363.9 L976.9,380.7 L941.0,416.8 L924.8,446.2 L905.9,468.8 L899.5,469.3 L892.4,488.6 L894.2,537.9 L884.4,596.5 L876.4,607.1 L871.8,643.1 L846.0,678.5 L841.7,706.8 L821.1,718.7 L815.1,735.2 L787.4,735.2 L747.4,745.8 L729.4,758.2 L700.9,766.3 L670.9,788.6 L649.4,816.6 L645.6,837.8 L649.9,853.6 L645.1,882.6 L639.3,896.7 L621.5,912.8 L593.3,964.6 L570.9,988.3 L553.6,1002.3 L541.9,1031.1 L525.1,1048.6 Z" fill="#0b0e09"/></svg><svg class="c" viewBox="0 0 1000 1049" style="transform:translateZ(-6px)"><path d="M525.1,1048.6 L518.0,1031.3 L529.3,1016.9 L514.5,996.3 L468.3,960.7 L458.9,961.6 L433.3,938.7 L416.8,941.9 L450.8,901.9 L479.5,873.8 L518.1,846.3 L518.6,823.6 L505.8,807.3 L493.2,812.7 L501.7,779.8 L501.7,764.4 L492.5,759.4 L483.0,763.9 L473.5,762.6 L468.1,726.5 L463.3,718.3 L446.1,710.9 L435.7,716.2 L408.8,711.0 L410.5,673.8 L403.0,658.7 L411.0,653.1 L408.5,637.7 L415.5,625.9 L420.0,604.7 L414.0,588.1 L400.1,580.6 L397.4,570.0 L401.1,554.7 L352.3,553.6 L342.5,522.8 L349.9,522.4 L349.6,511.0 L344.6,503.3 L343.5,488.1 L328.7,480.4 L312.7,480.6 L302.1,473.0 L284.9,467.8 L274.9,458.1 L246.3,453.8 L218.7,430.4 L220.7,413.0 L217.6,403.1 L220.3,383.7 L187.0,388.0 L173.6,397.8 L151.3,408.3 L145.6,416.1 L113.5,414.5 L99.2,418.9 L87.6,416.0 L89.3,376.6 L68.4,391.9 L45.9,391.2 L36.3,377.4 L19.4,375.9 L24.8,364.8 L10.6,349.2 L0.0,326.0 L6.7,321.3 L6.7,310.4 L22.1,303.0 L19.6,289.2 L26.1,280.3 L27.9,268.3 L57.0,250.9 L77.9,246.0 L81.3,242.2 L104.3,243.4 L116.3,162.4 L112.3,147.8 L101.0,138.5 L101.2,120.0 L115.5,115.8 L120.6,118.4 L121.5,108.7 L106.5,106.0 L106.2,90.1 L155.9,90.7 L164.3,81.9 L171.4,90.0 L176.3,105.0 L181.1,101.9 L195.2,115.3 L215.0,113.7 L219.9,105.9 L249.3,95.7 L252.3,85.0 L270.5,77.7 L269.1,72.3 L247.5,70.2 L244.0,54.1 L245.0,37.0 L233.6,30.4 L238.4,28.0 L277.5,37.7 L284.9,31.6 L331.7,18.1 L341.0,8.3 L337.6,1.1 L350.9,0.0 L356.8,5.9 L353.5,17.1 L362.2,21.0 L368.1,32.9 L361.0,41.9 L356.9,63.6 L363.5,76.5 L365.3,88.3 L381.0,100.2 L393.5,101.5 L396.3,96.5 L415.9,90.9 L424.2,84.1 L458.3,87.5 L460.6,82.3 L456.3,77.2 L458.9,69.8 L469.1,72.1 L481.2,69.5 L506.9,80.1 L514.8,73.2 L520.5,74.3 L523.9,81.5 L536.1,79.6 L545.9,70.0 L553.7,51.2 L568.8,27.8 L577.5,26.6 L598.1,85.3 L611.7,89.5 L612.4,107.1 L593.2,128.1 L601.1,135.8 L646.2,139.8 L647.1,165.3 L666.4,148.6 L740.8,173.3 L753.2,188.2 L749.1,202.4 L778.7,194.5 L828.2,208.0 L866.3,207.0 L904.0,228.1 L936.5,256.7 L956.1,264.1 L977.9,265.1 L987.1,273.2 L1000.0,321.3 L989.9,363.9 L976.9,380.7 L941.0,416.8 L924.8,446.2 L905.9,468.8 L899.5,469.3 L892.4,488.6 L894.2,537.9 L884.4,596.5 L876.4,607.1 L871.8,643.1 L846.0,678.5 L841.7,706.8 L821.1,718.7 L815.1,735.2 L787.4,735.2 L747.4,745.8 L729.4,758.2 L700.9,766.3 L670.9,788.6 L649.4,816.6 L645.6,837.8 L649.9,853.6 L645.1,882.6 L639.3,896.7 L621.5,912.8 L593.3,964.6 L570.9,988.3 L553.6,1002.3 L541.9,1031.1 L525.1,1048.6 Z" fill="#0b0e09"/></svg><svg class="c" viewBox="0 0 1000 1049" style="transform:translateZ(-4px)"><path d="M525.1,1048.6 L518.0,1031.3 L529.3,1016.9 L514.5,996.3 L468.3,960.7 L458.9,961.6 L433.3,938.7 L416.8,941.9 L450.8,901.9 L479.5,873.8 L518.1,846.3 L518.6,823.6 L505.8,807.3 L493.2,812.7 L501.7,779.8 L501.7,764.4 L492.5,759.4 L483.0,763.9 L473.5,762.6 L468.1,726.5 L463.3,718.3 L446.1,710.9 L435.7,716.2 L408.8,711.0 L410.5,673.8 L403.0,658.7 L411.0,653.1 L408.5,637.7 L415.5,625.9 L420.0,604.7 L414.0,588.1 L400.1,580.6 L397.4,570.0 L401.1,554.7 L352.3,553.6 L342.5,522.8 L349.9,522.4 L349.6,511.0 L344.6,503.3 L343.5,488.1 L328.7,480.4 L312.7,480.6 L302.1,473.0 L284.9,467.8 L274.9,458.1 L246.3,453.8 L218.7,430.4 L220.7,413.0 L217.6,403.1 L220.3,383.7 L187.0,388.0 L173.6,397.8 L151.3,408.3 L145.6,416.1 L113.5,414.5 L99.2,418.9 L87.6,416.0 L89.3,376.6 L68.4,391.9 L45.9,391.2 L36.3,377.4 L19.4,375.9 L24.8,364.8 L10.6,349.2 L0.0,326.0 L6.7,321.3 L6.7,310.4 L22.1,303.0 L19.6,289.2 L26.1,280.3 L27.9,268.3 L57.0,250.9 L77.9,246.0 L81.3,242.2 L104.3,243.4 L116.3,162.4 L112.3,147.8 L101.0,138.5 L101.2,120.0 L115.5,115.8 L120.6,118.4 L121.5,108.7 L106.5,106.0 L106.2,90.1 L155.9,90.7 L164.3,81.9 L171.4,90.0 L176.3,105.0 L181.1,101.9 L195.2,115.3 L215.0,113.7 L219.9,105.9 L249.3,95.7 L252.3,85.0 L270.5,77.7 L269.1,72.3 L247.5,70.2 L244.0,54.1 L245.0,37.0 L233.6,30.4 L238.4,28.0 L277.5,37.7 L284.9,31.6 L331.7,18.1 L341.0,8.3 L337.6,1.1 L350.9,0.0 L356.8,5.9 L353.5,17.1 L362.2,21.0 L368.1,32.9 L361.0,41.9 L356.9,63.6 L363.5,76.5 L365.3,88.3 L381.0,100.2 L393.5,101.5 L396.3,96.5 L415.9,90.9 L424.2,84.1 L458.3,87.5 L460.6,82.3 L456.3,77.2 L458.9,69.8 L469.1,72.1 L481.2,69.5 L506.9,80.1 L514.8,73.2 L520.5,74.3 L523.9,81.5 L536.1,79.6 L545.9,70.0 L553.7,51.2 L568.8,27.8 L577.5,26.6 L598.1,85.3 L611.7,89.5 L612.4,107.1 L593.2,128.1 L601.1,135.8 L646.2,139.8 L647.1,165.3 L666.4,148.6 L740.8,173.3 L753.2,188.2 L749.1,202.4 L778.7,194.5 L828.2,208.0 L866.3,207.0 L904.0,228.1 L936.5,256.7 L956.1,264.1 L977.9,265.1 L987.1,273.2 L1000.0,321.3 L989.9,363.9 L976.9,380.7 L941.0,416.8 L924.8,446.2 L905.9,468.8 L899.5,469.3 L892.4,488.6 L894.2,537.9 L884.4,596.5 L876.4,607.1 L871.8,643.1 L846.0,678.5 L841.7,706.8 L821.1,718.7 L815.1,735.2 L787.4,735.2 L747.4,745.8 L729.4,758.2 L700.9,766.3 L670.9,788.6 L649.4,816.6 L645.6,837.8 L649.9,853.6 L645.1,882.6 L639.3,896.7 L621.5,912.8 L593.3,964.6 L570.9,988.3 L553.6,1002.3 L541.9,1031.1 L525.1,1048.6 Z" fill="#0b0e09"/></svg><svg class="c" viewBox="0 0 1000 1049" style="transform:translateZ(-2px)"><path d="M525.1,1048.6 L518.0,1031.3 L529.3,1016.9 L514.5,996.3 L468.3,960.7 L458.9,961.6 L433.3,938.7 L416.8,941.9 L450.8,901.9 L479.5,873.8 L518.1,846.3 L518.6,823.6 L505.8,807.3 L493.2,812.7 L501.7,779.8 L501.7,764.4 L492.5,759.4 L483.0,763.9 L473.5,762.6 L468.1,726.5 L463.3,718.3 L446.1,710.9 L435.7,716.2 L408.8,711.0 L410.5,673.8 L403.0,658.7 L411.0,653.1 L408.5,637.7 L415.5,625.9 L420.0,604.7 L414.0,588.1 L400.1,580.6 L397.4,570.0 L401.1,554.7 L352.3,553.6 L342.5,522.8 L349.9,522.4 L349.6,511.0 L344.6,503.3 L343.5,488.1 L328.7,480.4 L312.7,480.6 L302.1,473.0 L284.9,467.8 L274.9,458.1 L246.3,453.8 L218.7,430.4 L220.7,413.0 L217.6,403.1 L220.3,383.7 L187.0,388.0 L173.6,397.8 L151.3,408.3 L145.6,416.1 L113.5,414.5 L99.2,418.9 L87.6,416.0 L89.3,376.6 L68.4,391.9 L45.9,391.2 L36.3,377.4 L19.4,375.9 L24.8,364.8 L10.6,349.2 L0.0,326.0 L6.7,321.3 L6.7,310.4 L22.1,303.0 L19.6,289.2 L26.1,280.3 L27.9,268.3 L57.0,250.9 L77.9,246.0 L81.3,242.2 L104.3,243.4 L116.3,162.4 L112.3,147.8 L101.0,138.5 L101.2,120.0 L115.5,115.8 L120.6,118.4 L121.5,108.7 L106.5,106.0 L106.2,90.1 L155.9,90.7 L164.3,81.9 L171.4,90.0 L176.3,105.0 L181.1,101.9 L195.2,115.3 L215.0,113.7 L219.9,105.9 L249.3,95.7 L252.3,85.0 L270.5,77.7 L269.1,72.3 L247.5,70.2 L244.0,54.1 L245.0,37.0 L233.6,30.4 L238.4,28.0 L277.5,37.7 L284.9,31.6 L331.7,18.1 L341.0,8.3 L337.6,1.1 L350.9,0.0 L356.8,5.9 L353.5,17.1 L362.2,21.0 L368.1,32.9 L361.0,41.9 L356.9,63.6 L363.5,76.5 L365.3,88.3 L381.0,100.2 L393.5,101.5 L396.3,96.5 L415.9,90.9 L424.2,84.1 L458.3,87.5 L460.6,82.3 L456.3,77.2 L458.9,69.8 L469.1,72.1 L481.2,69.5 L506.9,80.1 L514.8,73.2 L520.5,74.3 L523.9,81.5 L536.1,79.6 L545.9,70.0 L553.7,51.2 L568.8,27.8 L577.5,26.6 L598.1,85.3 L611.7,89.5 L612.4,107.1 L593.2,128.1 L601.1,135.8 L646.2,139.8 L647.1,165.3 L666.4,148.6 L740.8,173.3 L753.2,188.2 L749.1,202.4 L778.7,194.5 L828.2,208.0 L866.3,207.0 L904.0,228.1 L936.5,256.7 L956.1,264.1 L977.9,265.1 L987.1,273.2 L1000.0,321.3 L989.9,363.9 L976.9,380.7 L941.0,416.8 L924.8,446.2 L905.9,468.8 L899.5,469.3 L892.4,488.6 L894.2,537.9 L884.4,596.5 L876.4,607.1 L871.8,643.1 L846.0,678.5 L841.7,706.8 L821.1,718.7 L815.1,735.2 L787.4,735.2 L747.4,745.8 L729.4,758.2 L700.9,766.3 L670.9,788.6 L649.4,816.6 L645.6,837.8 L649.9,853.6 L645.1,882.6 L639.3,896.7 L621.5,912.8 L593.3,964.6 L570.9,988.3 L553.6,1002.3 L541.9,1031.1 L525.1,1048.6 Z" fill="#1b2316"/></svg><svg class="c" viewBox="0 0 1000 1049"><defs><linearGradient id="gm" x1="0" y1="0" x2="1" y2="1"><stop offset="0" stop-color="#3a4630"/><stop offset="1" stop-color="#242c1d"/></linearGradient></defs><path d="M525.1,1048.6 L518.0,1031.3 L529.3,1016.9 L514.5,996.3 L468.3,960.7 L458.9,961.6 L433.3,938.7 L416.8,941.9 L450.8,901.9 L479.5,873.8 L518.1,846.3 L518.6,823.6 L505.8,807.3 L493.2,812.7 L501.7,779.8 L501.7,764.4 L492.5,759.4 L483.0,763.9 L473.5,762.6 L468.1,726.5 L463.3,718.3 L446.1,710.9 L435.7,716.2 L408.8,711.0 L410.5,673.8 L403.0,658.7 L411.0,653.1 L408.5,637.7 L415.5,625.9 L420.0,604.7 L414.0,588.1 L400.1,580.6 L397.4,570.0 L401.1,554.7 L352.3,553.6 L342.5,522.8 L349.9,522.4 L349.6,511.0 L344.6,503.3 L343.5,488.1 L328.7,480.4 L312.7,480.6 L302.1,473.0 L284.9,467.8 L274.9,458.1 L246.3,453.8 L218.7,430.4 L220.7,413.0 L217.6,403.1 L220.3,383.7 L187.0,388.0 L173.6,397.8 L151.3,408.3 L145.6,416.1 L113.5,414.5 L99.2,418.9 L87.6,416.0 L89.3,376.6 L68.4,391.9 L45.9,391.2 L36.3,377.4 L19.4,375.9 L24.8,364.8 L10.6,349.2 L0.0,326.0 L6.7,321.3 L6.7,310.4 L22.1,303.0 L19.6,289.2 L26.1,280.3 L27.9,268.3 L57.0,250.9 L77.9,246.0 L81.3,242.2 L104.3,243.4 L116.3,162.4 L112.3,147.8 L101.0,138.5 L101.2,120.0 L115.5,115.8 L120.6,118.4 L121.5,108.7 L106.5,106.0 L106.2,90.1 L155.9,90.7 L164.3,81.9 L171.4,90.0 L176.3,105.0 L181.1,101.9 L195.2,115.3 L215.0,113.7 L219.9,105.9 L249.3,95.7 L252.3,85.0 L270.5,77.7 L269.1,72.3 L247.5,70.2 L244.0,54.1 L245.0,37.0 L233.6,30.4 L238.4,28.0 L277.5,37.7 L284.9,31.6 L331.7,18.1 L341.0,8.3 L337.6,1.1 L350.9,0.0 L356.8,5.9 L353.5,17.1 L362.2,21.0 L368.1,32.9 L361.0,41.9 L356.9,63.6 L363.5,76.5 L365.3,88.3 L381.0,100.2 L393.5,101.5 L396.3,96.5 L415.9,90.9 L424.2,84.1 L458.3,87.5 L460.6,82.3 L456.3,77.2 L458.9,69.8 L469.1,72.1 L481.2,69.5 L506.9,80.1 L514.8,73.2 L520.5,74.3 L523.9,81.5 L536.1,79.6 L545.9,70.0 L553.7,51.2 L568.8,27.8 L577.5,26.6 L598.1,85.3 L611.7,89.5 L612.4,107.1 L593.2,128.1 L601.1,135.8 L646.2,139.8 L647.1,165.3 L666.4,148.6 L740.8,173.3 L753.2,188.2 L749.1,202.4 L778.7,194.5 L828.2,208.0 L866.3,207.0 L904.0,228.1 L936.5,256.7 L956.1,264.1 L977.9,265.1 L987.1,273.2 L1000.0,321.3 L989.9,363.9 L976.9,380.7 L941.0,416.8 L924.8,446.2 L905.9,468.8 L899.5,469.3 L892.4,488.6 L894.2,537.9 L884.4,596.5 L876.4,607.1 L871.8,643.1 L846.0,678.5 L841.7,706.8 L821.1,718.7 L815.1,735.2 L787.4,735.2 L747.4,745.8 L729.4,758.2 L700.9,766.3 L670.9,788.6 L649.4,816.6 L645.6,837.8 L649.9,853.6 L645.1,882.6 L639.3,896.7 L621.5,912.8 L593.3,964.6 L570.9,988.3 L553.6,1002.3 L541.9,1031.1 L525.1,1048.6 Z" fill="url(#gm)" stroke="#ebe3c8" stroke-width="2.5" stroke-linejoin="round"/></svg><div class="pino" style="left:499.396px;top:469.45200000000006px"><svg width="46" height="62" viewBox="-34 -100 68 100"><path d="M0 0 C-20 -28 -34 -42 -34 -60 A34 34 0 1 1 34 -60 C34 -42 20 -28 0 0Z" fill="#b8943d" stroke="#12160f" stroke-width="5"/><circle cx="0" cy="-60" r="12" fill="#12160f"/></svg></div><div class="pino" style="left:446.34799999999996px;top:451.896px"><svg width="46" height="62" viewBox="-34 -100 68 100"><path d="M0 0 C-20 -28 -34 -42 -34 -60 A34 34 0 1 1 34 -60 C34 -42 20 -28 0 0Z" fill="#b8943d" stroke="#12160f" stroke-width="5"/><circle cx="0" cy="-60" r="12" fill="#12160f"/></svg></div><div class="pino" style="left:346.25600000000003px;top:407.664px"><svg width="46" height="62" viewBox="-34 -100 68 100"><path d="M0 0 C-20 -28 -34 -42 -34 -60 A34 34 0 1 1 34 -60 C34 -42 20 -28 0 0Z" fill="#b8943d" stroke="#12160f" stroke-width="5"/><circle cx="0" cy="-60" r="12" fill="#12160f"/></svg></div></div></div>
  <p class="txt">Base em <b>Araguari</b>. Presença no Triângulo Mineiro, no sul de Goiás e no Mato Grosso.</p>
  <p class="fonte">Perto do produtor, não de um escritório em capital.</p></div>
-<div class="s" id="g5"><img class="foto" src="file:///tmp/claude-0/-home-user/26273b3c-5a63-5858-8d58-9c11ac53aa52/scratchpad/ig/foto05.jpg"><div class="veu"></div><div class="arroba">@ftgadvogados_</div>
- <div class="fio"></div><h1>O escritório jurídico que entende <b>o calendário da safra,</b> não só a lei.</h1>
+<div class="s" id="g5"><img class="full" src="file:///tmp/claude-0/-home-user/26273b3c-5a63-5858-8d58-9c11ac53aa52/scratchpad/ig/foto05.jpg"><div class="veu2"></div><div class="arroba">@ftgadvogados_</div>
+ <div class="bl"><div class="fio"></div><h2>O escritório jurídico que entende <b>o calendário da safra,</b> não só a lei.</h2></div>
+ <div class="botoes"><div><svg viewBox="0 0 30 30"><path d="M8 4h14v23l-7-5-7 5z"/></svg>Salve pra lembrar</div><div><svg viewBox="0 0 30 30"><path d="M27 4 3 13l9 4 4 9z M12 17l15-13"/></svg>Mande pra quem é do campo</div></div>
  <div class="pe"><img src="file:///home/user/calendario/docs/gorayeb/assets/logo-horizontal-claro.png"><span>grupoftg.com.br</span></div></div>
-</body></html>
+<script>
+window.addEventListener('load',()=>{const sl=document.getElementById('g4'),r0=sl.getBoundingClientRect();
+const pins=[...sl.querySelectorAll('.pino svg')].map(e=>{const r=e.getBoundingClientRect();return{x:r.left+r.width/2-r0.left,y:r.top+r.height*0.35-r0.top}});
+const L=[['Araguari · MG','princ',170,-150],['Sul de Goiás','',-40,230],['Mato Grosso','',-230,-170]];
+let svg='<svg class="fios" viewBox="0 0 1080 1350">';
+pins.forEach((p,i)=>{const [t,c,dx,dy]=L[i];const lx=p.x+dx,ly=p.y+dy;
+ svg+=`<line x1="${p.x}" y1="${p.y}" x2="${lx}" y2="${ly}" stroke="#ebe3c8" stroke-width="2.5" stroke-dasharray="6 6"/><circle cx="${p.x}" cy="${p.y}" r="7" fill="#ebe3c8"/>`;
+ const d=document.createElement('div');d.className='rotulo '+c;d.textContent=t;sl.appendChild(d);
+ const w=d.offsetWidth,h=d.offsetHeight;d.style.left=(dx<0?lx-w:lx)+'px';d.style.top=(ly-h/2)+'px';});
+sl.insertAdjacentHTML('beforeend',svg+'</svg>');document.body.dataset.ok=1;});
+</script></body></html>

diff --git a/docs/gorayeb/diario.md b/docs/gorayeb/diario.md
@@ -1262,3 +1262,8 @@ virou "Agronegócio", e "Do agro. Pelo agro." saiu da arte e da legenda, como
 manda o formato 01. O mapa ganhou pinos em Araguari, sul de Goiás e Mato
 Grosso. Números (450% desde 2019, R$ 5,9 bi) são do escritório, como no post
 publicado; a fonte na arte diz "Dados do escritório".
+- **A FTG em números, revisão.** Tela 3 com a foto em tela cheia e degradê. Tela
+  4 com o mapa em 3D (camadas empilhadas em perspectiva, sombra), sem a foto
+  pequena da águia, e rótulos planos ligados aos pinos por fio tracejado.
+  Título e texto equilibrados. Tela 5 refeita: foto cheia com degradê, síntese
+  com peso misturado e os botões do fecho F3.
